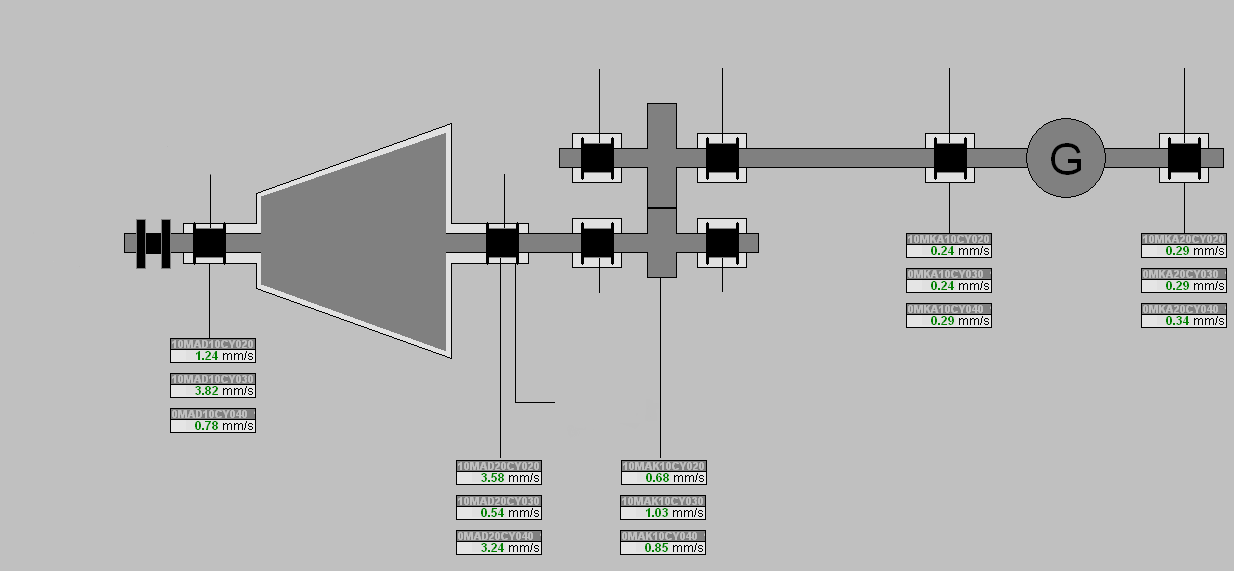
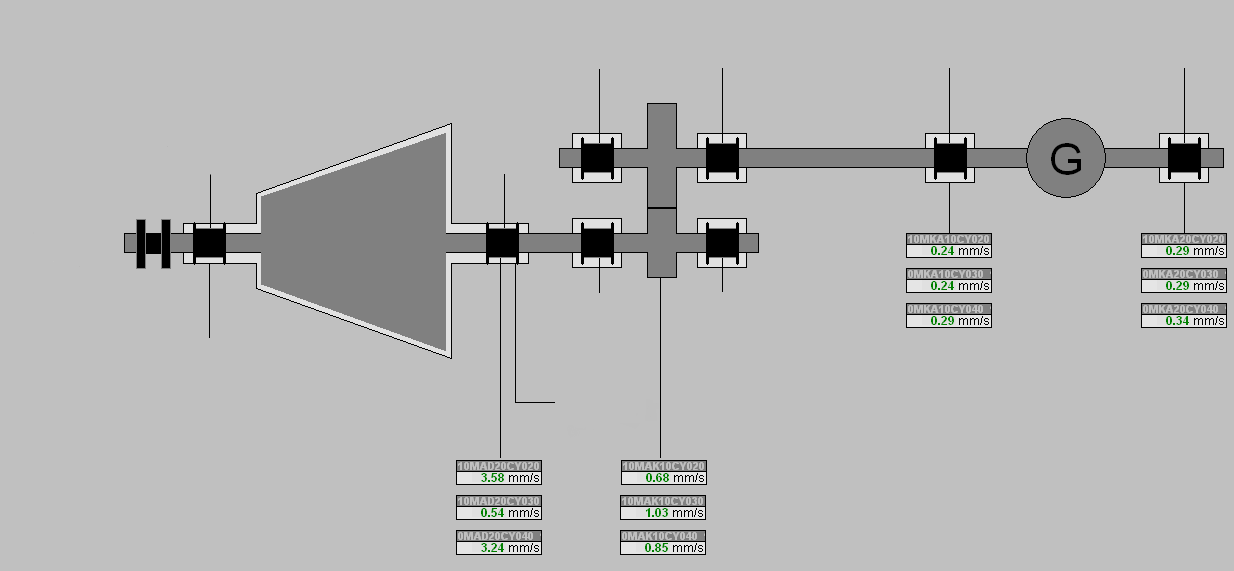
На форму добавлено три параметра из второй группы

Changed region(s): [[0.1232, 0.5657, 0.2156, 0.7741]]

diff --git a/BN/Views/Window/MainWindow.xaml b/BN/Views/Window/MainWindow.xaml
@@ -51,6 +51,9 @@
                     <Border Style="{StaticResource BorderForLabel}"  Margin="814,40,0,0" Background="{Binding Bckgrd_10MKA10CY012}"/>
                     <Border Style="{StaticResource BorderForLabel}"  Margin="1023,19,0,0" Background="{Binding Bckgrd_10MKA20CY011}"/>
                     <Border Style="{StaticResource BorderForLabel}"  Margin="1024,40,0,0" Background="{Binding Bckgrd_10MKA20CY012}"/>
+                    <Border Style="{StaticResource BorderForLabel}"  Margin="146,312,0,0" Background="{Binding Bckgrd_10MAD10CY020}"/>
+                    <Border Style="{StaticResource BorderForLabel}"  Margin="146,333,0,0" Background="{Binding Bckgrd_10MAD10CY030}"/>
+                    <Border Style="{StaticResource BorderForLabel}"  Margin="146,354,0,0" Background="{Binding Bckgrd_10MAD10CY040}"/>
                     <Label Content="{Binding Prm_10MAD10CG012}" Style="{StaticResource Parent_LabelOnImage}" Margin="31,229,0,0" ToolTip="10MAD10CG012"/>
                     <Label Content="{Binding Prm_10MAD10CG011}" Style="{StaticResource Parent_LabelOnImage}" Margin="31,208,0,0" ToolTip="10MAD10CG011"/>
                     <Label Content="{Binding Prm_10MAD10CG010}" Style="{StaticResource Parent_LabelOnImage}" Margin="31,187,0,0" ToolTip="10MAD10CG010"/>
@@ -71,6 +74,9 @@
                     <Label Content="{Binding Prm_10MKA10CY012}" Style="{StaticResource Child_0_LabelOnImage}" Margin="818,35,0,0" ToolTip="10MKA10CY012"/>
                     <Label Content="{Binding Prm_10MKA20CY011}" Style="{StaticResource Child_0_LabelOnImage}" Margin="1028,14,0,0" ToolTip="10MKA20CY011"/>
                     <Label Content="{Binding Prm_10MKA20CY012}" Style="{StaticResource Child_0_LabelOnImage}" Margin="1028,35,0,0" ToolTip="10MKA20CY012"/>
+                    <Label Content="{Binding Prm_10MAD10CY020}" Style="{StaticResource Child_1_LabelOnImage}" Margin="151,306,0,0" ToolTip="10MAD10CY020"/>
+                    <Label Content="{Binding Prm_10MAD10CY030}" Style="{StaticResource Child_1_LabelOnImage}" Margin="151,328,0,0" ToolTip="10MAD10CY030"/>
+                    <Label Content="{Binding Prm_10MAD10CY040}" Style="{StaticResource Child_1_LabelOnImage}" Margin="151,349,0,0" ToolTip="10MAD10CY040"/>
                 </Grid>
             </TabItem>
             <TabItem Header="ГТ-7">

diff --git a/BN/ViewModels/Base/MainWindowViewModel.cs b/BN/ViewModels/Base/MainWindowViewModel.cs
@@ -231,6 +231,27 @@ namespace BN.ViewModels.Base
             get => _bckgrd_10MKA20CY012;
             set => Set(ref _bckgrd_10MKA20CY012, value);
         }
+
+        private string _bckgrd_10MAD10CY020;
+        public string Bckgrd_10MAD10CY020
+        {
+            get => _bckgrd_10MAD10CY020;
+            set => Set(ref _bckgrd_10MAD10CY020, value);
+        }
+
+        private string _bckgrd_10MAD10CY030;
+        public string Bckgrd_10MAD10CY030
+        {
+            get => _bckgrd_10MAD10CY030;
+            set => Set(ref _bckgrd_10MAD10CY030, value);
+        }
+
+        private string _bckgrd_10MAD10CY040;
+        public string Bckgrd_10MAD10CY040
+        {
+            get => _bckgrd_10MAD10CY020;
+            set => Set(ref _bckgrd_10MAD10CY040, value);
+        }
         #endregion
 
         #region Фон для StatusBar_st6 
@@ -427,6 +448,27 @@ namespace BN.ViewModels.Base
             get => _prm_10MKA20CY012;
             set => Set(ref _prm_10MKA20CY012, value);
         }
+
+        private double _prm_10MAD10CY020;
+        public double Prm_10MAD10CY020
+        {
+            get => _prm_10MAD10CY020;
+            set => Set(ref _prm_10MAD10CY020, value);
+        }
+
+        private double _prm_10MAD10CY030;
+        public double Prm_10MAD10CY030
+        {
+            get => _prm_10MAD10CY030;
+            set => Set(ref _prm_10MAD10CY030, value);
+        }
+
+        private double _prm_10MAD10CY040;
+        public double Prm_10MAD10CY040
+        {
+            get => _prm_10MAD10CY040;
+            set => Set(ref _prm_10MAD10CY040, value);
+        }
         #endregion
 
         #region Комманды
@@ -538,6 +580,10 @@ namespace BN.ViewModels.Base
                                     Prm_10MAD10CG010 = rtrn_prm_st6_gr1[0];
                                     Prm_10MAD10CG011 = rtrn_prm_st6_gr1[1];
                                     Prm_10MAD10CG012 = rtrn_prm_st6_gr1[2];
+                                    Prm_10MAD10CY020 = rtrn_prm_st6_gr2[0];
+                                    Prm_10MAD10CY030 = rtrn_prm_st6_gr2[1];
+                                    Prm_10MAD10CY040 = rtrn_prm_st6_gr2[3];
+                                    ///////////////////////////////////////
                                     Prm_10MAD20CG010 = rtrn_prm_st6_gr4[0];
                                     
                                     Bckgrd_10MAD10CY011 = bckgrd_st6_gr0[0];
@@ -559,6 +605,10 @@ namespace BN.ViewModels.Base
                                     Bckgrd_10MAD10CG010 = bckgrd_st6_gr1[0];
                                     Bckgrd_10MAD10CG011 = bckgrd_st6_gr1[1];
                                     Bckgrd_10MAD10CG012 = bckgrd_st6_gr1[2];
+                                    Bckgrd_10MAD10CY020 = bckgrd_st6_gr2[0];
+                                    Bckgrd_10MAD10CY030 = bckgrd_st6_gr2[1];
+                                    Bckgrd_10MAD10CY040 = bckgrd_st6_gr2[3];
+                                    ///////////////////////////////////////
                                     Bckgrd_10MAD20CG010 = bckgrd_st6_gr4[0];
                                 }
                                 else//Вернулся массив размерностью 101. Значит не удалось считать регистры.
